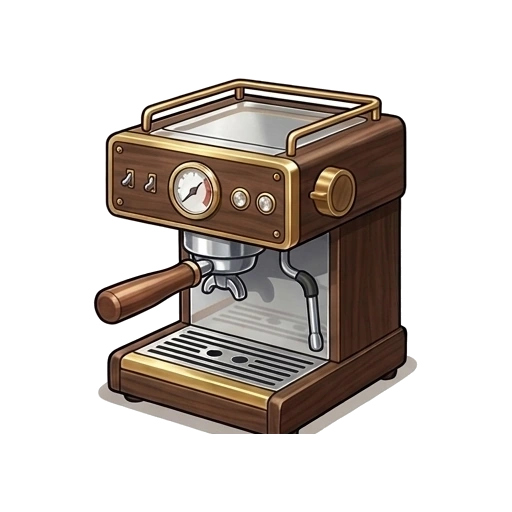
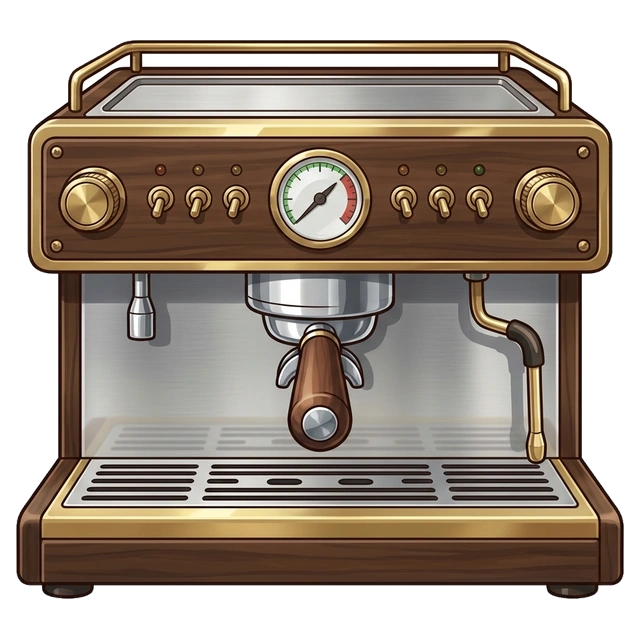
feat(midnight-cafe): add daytime/sunset/night 50/50 bar counter backgrounds and larger front-view espresso machine

diff --git a/games/midnight-cafe/index.html b/games/midnight-cafe/index.html
@@ -5,7 +5,7 @@
   <meta name="viewport" content="width=device-width, initial-scale=1.0, maximum-scale=1.0, user-scalable=no" />
   <title>放学以后的深夜咖啡馆 · 第一人称咖啡师料理台 (Pxlsan Midnight Cafe)</title>
   <link rel="icon" href="assets/favicon.ico" type="image/x-icon" />
-  <link rel="stylesheet" href="src/arcade/midnight-cafe.css?v=4" />
+  <link rel="stylesheet" href="src/arcade/midnight-cafe.css?v=5" />
 </head>
 <body class="pov-cafe-body">
   <!-- 暖钨丝灯环境光晕与暗角层 -->
@@ -33,28 +33,28 @@
       </div>
     </div>
 
-    <!-- 营业时段切换器 (3个时段) -->
+    <!-- 营业时段切换器 (白天 / 下午夕阳 / 深夜雨夜 3个时段) -->
     <div class="beam-center">
       <div class="shift-selector" role="tablist" aria-label="营业时段切换">
-        <button class="shift-pill active" data-shift="dusk" role="tab" aria-selected="true">
-          <span class="shift-icon">🌇</span>
+        <button class="shift-pill" data-shift="dusk" role="tab" aria-selected="false">
+          <span class="shift-icon">☀</span>
           <span class="shift-info">
-            <strong>黄昏放学档</strong>
-            <small>17:30 · 夕阳</small>
+            <strong>白天晴朗档</strong>
+            <small>11:30 · 晴空暖阳</small>
           </span>
         </button>
-        <button class="shift-pill" data-shift="rain" role="tab" aria-selected="false">
-          <span class="shift-icon">🌧</span>
+        <button class="shift-pill active" data-shift="rain" role="tab" aria-selected="true">
+          <span class="shift-icon">🌇</span>
           <span class="shift-info">
-            <strong>雨夜自习档</strong>
-            <small>20:00 · 夜雨</small>
+            <strong>下午夕阳档</strong>
+            <small>17:30 · 放学余晖</small>
           </span>
         </button>
         <button class="shift-pill" data-shift="late" role="tab" aria-selected="false">
-          <span class="shift-icon">🌙</span>
+          <span class="shift-icon">🌧</span>
           <span class="shift-info">
-            <strong>打烊微醺档</strong>
-            <small>22:30 · 静夜</small>
+            <strong>晚上雨夜档</strong>
+            <small>21:30 · 霓虹夜雨</small>
           </span>
         </button>
       </div>
@@ -104,7 +104,7 @@
       <img
         id="scene-backdrop-img"
         class="scene-backdrop-img"
-        src="assets/cafe/props/bg_first_person_counter.webp?v=4"
+        src="assets/cafe/props/bg_pov_sunset.webp?v=5"
         alt="第一人称深夜咖啡馆吧台全景"
       />
       <div class="window-tint-layer" id="window-tint-layer"></div>
@@ -273,7 +273,7 @@
             <div class="espresso-machine-rig" id="espresso-machine-rig">
               <div class="machine-img-wrap" id="btn-brew-hold" title="按住或点击启动意式高压黄金萃取 (+25% 风味)">
                 <img
-                  src="assets/cafe/props/prop_espresso_machine.webp"
+                  src="assets/cafe/props/prop_espresso_machine.webp?v=5"
                   alt="双头意式浓缩咖啡机"
                   class="prop-machine-img"
                 />
@@ -669,7 +669,7 @@
     <span class="hand-held-prop-label" id="hand-held-prop-label">大吉岭红茶</span>
   </div>
 
-  <script src="src/arcade/spine-rig-player.js?v=3"></script>
-  <script src="src/arcade/midnight-cafe.js?v=3"></script>
+  <script src="src/arcade/spine-rig-player.js?v=5"></script>
+  <script src="src/arcade/midnight-cafe.js?v=5"></script>
 </body>
 </html>

diff --git a/games/midnight-cafe/src/arcade/midnight-cafe.js b/games/midnight-cafe/src/arcade/midnight-cafe.js
@@ -20,36 +20,36 @@
   const SHIFTS = {
     dusk: {
       id: 'dusk',
-      name: '黄昏放学档',
-      time: '17:30',
-      sceneImg: 'assets/cafe/props/bg_first_person_counter.webp?v=4',
-      tint: 'linear-gradient(180deg, rgba(160, 74, 24, 0.26) 0%, rgba(30, 19, 12, 0.55) 100%)',
-      weatherIcon: '🌇',
-      weatherText: '暮色微风 · 放学铃声刚落 · 第一人称吧台视角',
-      rainDensity: 22,
-      bokehColors: ['rgba(255, 179, 71, 0.28)', 'rgba(255, 125, 80, 0.24)', 'rgba(245, 215, 140, 0.22)']
+      name: '白天晴朗档',
+      time: '11:30',
+      sceneImg: 'assets/cafe/props/bg_pov_day.webp?v=5',
+      tint: 'linear-gradient(180deg, rgba(255, 245, 220, 0.06) 0%, rgba(40, 24, 14, 0.14) 100%)',
+      weatherIcon: '☀',
+      weatherText: '晴空暖阳 · 街角绿树微风 · 第一人称吧台视角',
+      rainDensity: 0,
+      bokehColors: ['rgba(255, 235, 160, 0.24)', 'rgba(255, 255, 220, 0.20)', 'rgba(180, 235, 255, 0.18)']
     },
     rain: {
       id: 'rain',
-      name: '雨夜自习档',
-      time: '20:00',
-      sceneImg: 'assets/cafe/props/bg_first_person_counter.webp?v=4',
-      tint: 'linear-gradient(180deg, rgba(16, 28, 38, 0.30) 0%, rgba(28, 17, 11, 0.58) 100%)',
-      weatherIcon: '🌧',
-      weatherText: '窗外细雨淅沥 · 第一人称胡桃木吧台视角',
-      rainDensity: 68,
-      bokehColors: ['rgba(255, 185, 90, 0.26)', 'rgba(120, 195, 220, 0.20)', 'rgba(212, 140, 70, 0.25)']
+      name: '下午夕阳档',
+      time: '17:30',
+      sceneImg: 'assets/cafe/props/bg_pov_sunset.webp?v=5',
+      tint: 'linear-gradient(180deg, rgba(255, 140, 60, 0.08) 0%, rgba(35, 18, 10, 0.18) 100%)',
+      weatherIcon: '🌇',
+      weatherText: '放学夕阳余晖 · 金色霞光洒满木吧台',
+      rainDensity: 0,
+      bokehColors: ['rgba(255, 179, 71, 0.28)', 'rgba(255, 115, 75, 0.24)', 'rgba(255, 215, 130, 0.22)']
     },
     late: {
       id: 'late',
-      name: '打烊微醺档',
-      time: '22:30',
-      sceneImg: 'assets/cafe/props/bg_first_person_counter.webp?v=4',
-      tint: 'linear-gradient(180deg, rgba(32, 14, 42, 0.38) 0%, rgba(24, 13, 9, 0.68) 100%)',
-      weatherIcon: '🌙',
-      weatherText: '夜深雨歇 · 钨丝灯琥珀微醺 · 第一人称吧台视角',
-      rainDensity: 36,
-      bokehColors: ['rgba(255, 179, 71, 0.30)', 'rgba(195, 120, 210, 0.18)', 'rgba(240, 160, 85, 0.25)']
+      name: '晚上雨夜档',
+      time: '21:30',
+      sceneImg: 'assets/cafe/props/bg_first_person_counter.webp?v=5',
+      tint: 'linear-gradient(180deg, rgba(16, 28, 38, 0.15) 0%, rgba(24, 13, 9, 0.25) 100%)',
+      weatherIcon: '🌧',
+      weatherText: '窗外细雨淅沥 · 钨丝灯琥珀微醺 · 深夜吧台',
+      rainDensity: 64,
+      bokehColors: ['rgba(255, 179, 71, 0.30)', 'rgba(120, 200, 235, 0.22)', 'rgba(240, 160, 85, 0.25)']
     }
   };
 

diff --git a/games/midnight-cafe/src/arcade/midnight-cafe.css b/games/midnight-cafe/src/arcade/midnight-cafe.css
@@ -3741,3 +3741,27 @@ body.pov-cafe-body {
 .pov-customer-center-stage {
   padding-bottom: 0 !important;
 }
+
+
+/* V5: 正面大号意式浓缩咖啡机尺寸放大与正面双嘴液流对齐 */
+.pov-stations-deck {
+  grid-template-columns: 1.24fr 1.12fr 1.22fr 1.28fr !important;
+}
+
+.station-machine-row {
+  grid-template-columns: 1.48fr 0.72fr !important;
+  gap: 6px !important;
+}
+
+.prop-machine-img {
+  max-height: 206px !important;
+  width: auto !important;
+  transform: scale(1.06);
+}
+
+.machine-espresso-stream {
+  left: 50% !important;
+  top: 63% !important;
+  width: 8px !important;
+  transform: translateX(-50%);
+}
